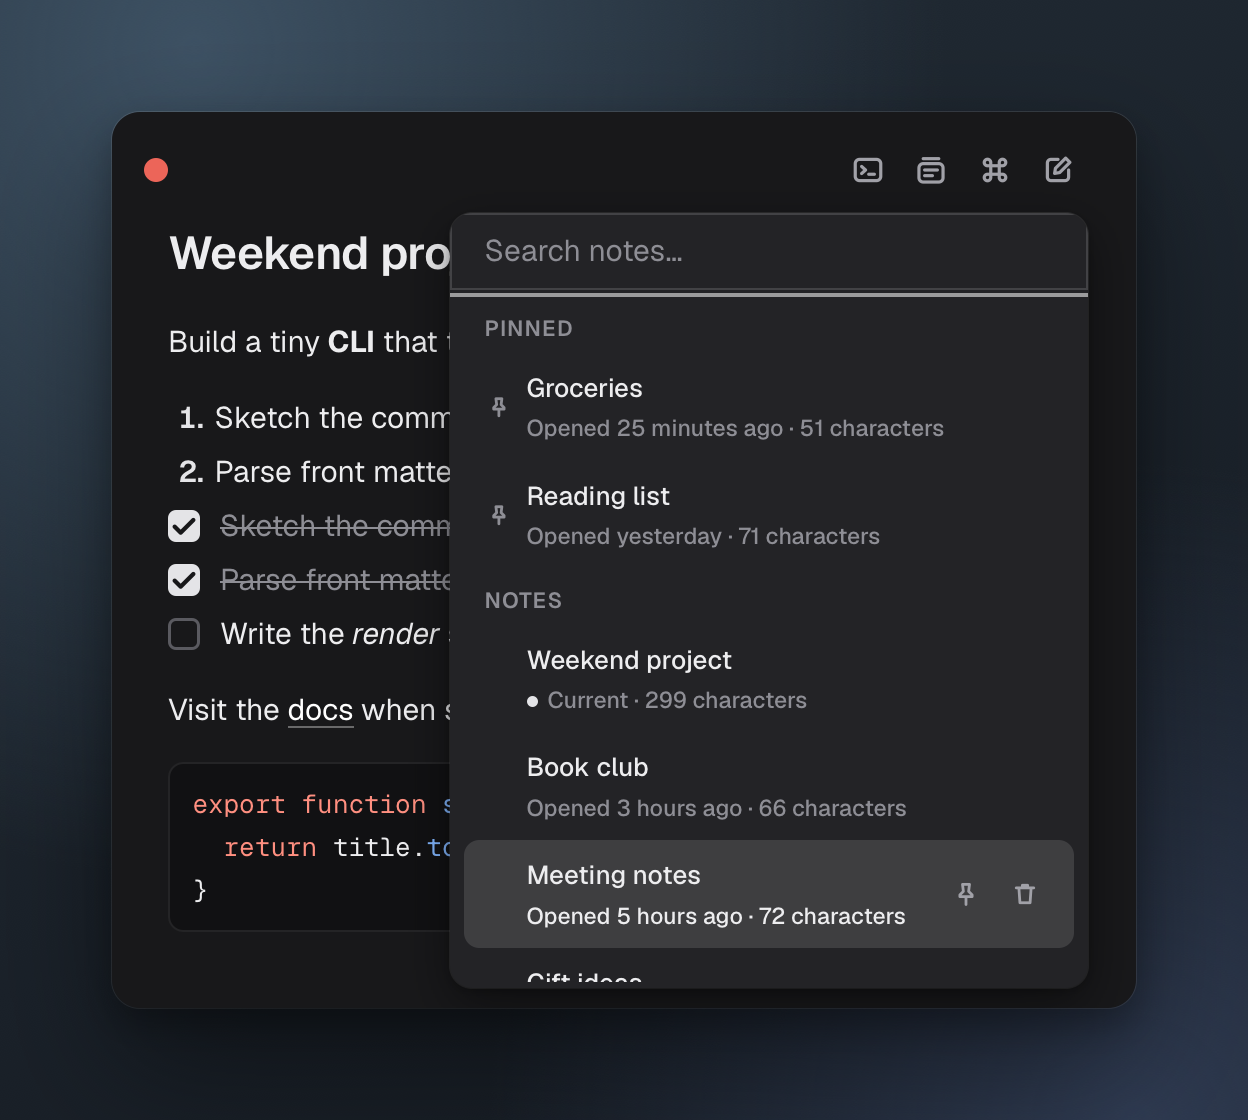
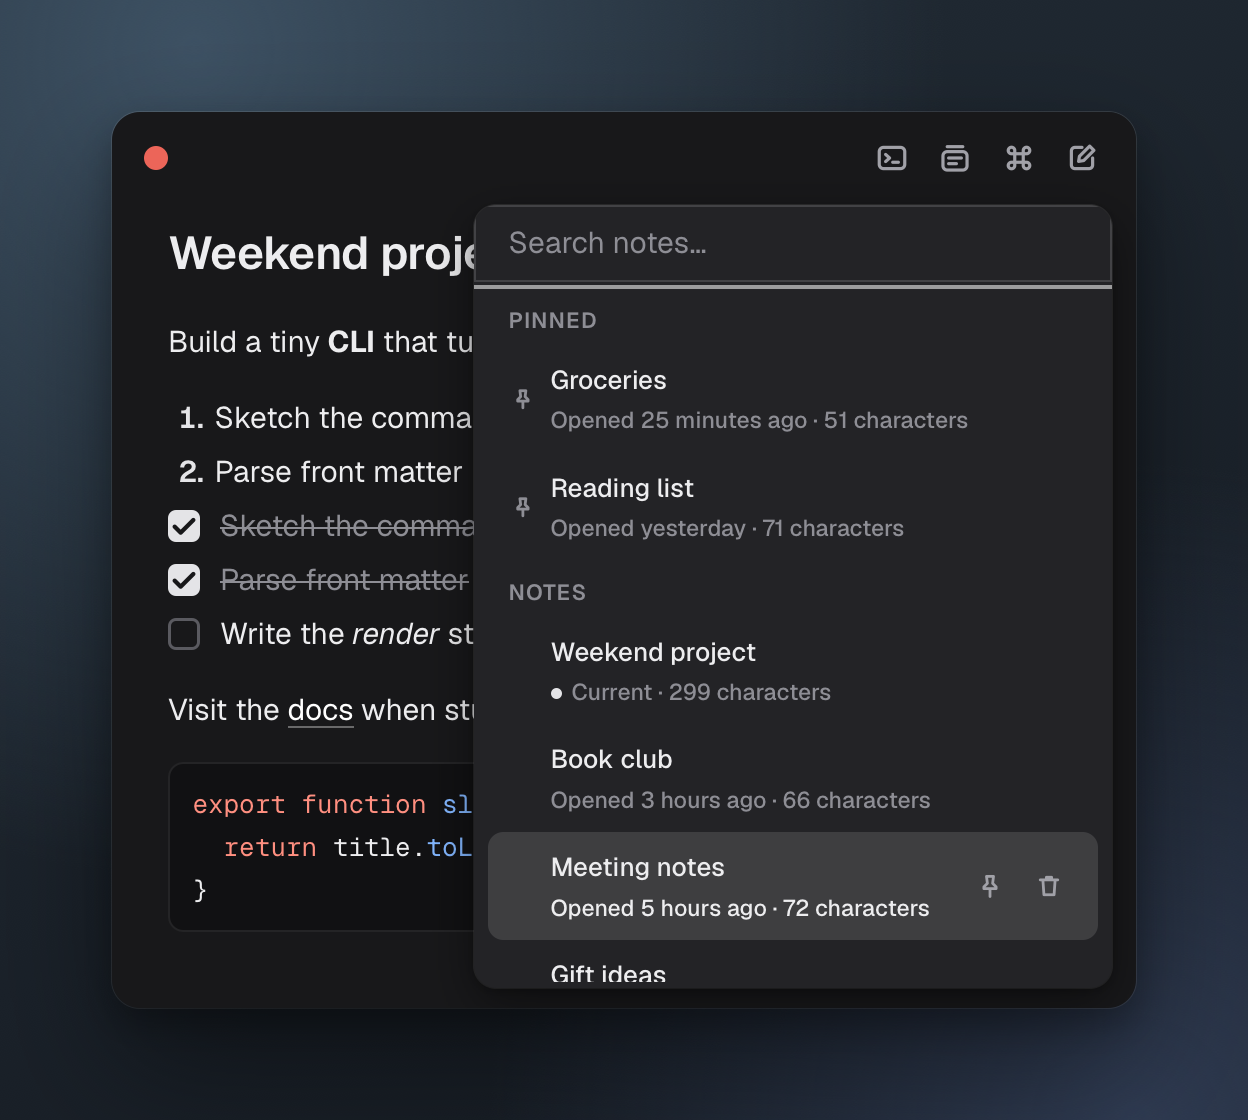
Design task 2: top bar (#29)
The top bar follows board 04: 46 pt, Close inset 16 and the four buttons inset 12 on the bar's centre line, always shown. The faded title is 12.5/500 tertiary, tooltips sit 6 pt under their button with a Geist Mono shortcut, and the helper's top resize corners shrink to 12 pt so the last button stays clickable.

diff --git a/editor/tests/window.spec.ts b/editor/tests/window.spec.ts
@@ -69,12 +69,14 @@ test("resize reports follow content, zoom, and overlays", async ({ page }) => {
   await settle(page);
   expect((await reports()).length).toBe(count);
 
-  // The top 12 points stay free of controls for the native drag strip.
+  // The top bar's icons stay below the native 12 point drag strip.
   await page.mouse.move(300, 120);
-  const buttonTop = await page
+  const iconTop = await page
     .getByTestId("new-note")
-    .evaluate((el) => el.getBoundingClientRect().top - el.closest(".app")!.getBoundingClientRect().top);
-  expect(buttonTop).toBeGreaterThanOrEqual(12);
+    .evaluate(
+      (el) => el.querySelector(".icon")!.getBoundingClientRect().top - el.closest(".app")!.getBoundingClientRect().top,
+    );
+  expect(iconTop).toBeGreaterThanOrEqual(12);
 });
 
 test("the minimum size is the bars plus one line at the current zoom, never below 405 x 197", async ({ page }) => {
@@ -265,13 +267,12 @@ test("the first line renders exactly like body text and still names the note", a
   await expect(page.getByTestId("title")).toHaveText("Say Hello");
   await expect.poll(async () => String((await lastSave(page)).title)).toBe("Say Hello");
 
-  // An empty note shows the placeholder in plain body style and a quiet "Untitled".
+  // An empty note shows the placeholder in plain body style and names itself "Untitled".
   await openHarness(page);
   await expect(editor(page).locator(":scope > p")).toHaveAttribute("data-placeholder", "Start writing…");
   await expect(page.getByTestId("title")).toHaveText("Untitled");
-  await expect(page.getByTestId("title")).toHaveClass(/is-untitled/);
   await page.keyboard.type("T");
-  await expect(page.getByTestId("title")).not.toHaveClass(/is-untitled/);
+  await expect(page.getByTestId("title")).toHaveText("T");
 });
 
 test("decorations, chrome, and panels never churn window.resize reports", async ({ page }) => {
@@ -349,7 +350,7 @@ test("motion: short ease-out transitions, a fading panel exit, and none with red
     page.evaluate(() => {
       const css = (sel: string) => getComputedStyle(document.querySelector(sel)!);
       return {
-        chrome: `${css(".toolbar-actions").transitionDuration} ${css(".toolbar-actions").transitionTimingFunction}`,
+        chrome: `${css(".tooltip").transitionDuration} ${css(".tooltip").transitionTimingFunction}`,
         panel: document.querySelector("[data-testid=command-panel]")
           ? `${css("[data-testid=command-panel]").animationName} ${css("[data-testid=command-panel]").animationDuration}`
           : "",
@@ -617,39 +618,27 @@ test("the top bar follows the editor board: a 46 point bar, the Close dot, and 3
     expect(w).toBeCloseTo(30, 1);
     expect(h).toBeCloseTo(30, 1);
   }
-  // Controls stay clear of the helper's resize zones: 10 points along edges, 24 point squares at corners.
-  // Close is measured by its visible dot, which sits on the corner square's lower edge (within a point);
-  // its hit area keeps the 28 point floor and only stays out of the edge zone.
+  // What you aim at stays clear of the helper's resize zones (10 points along edges, 24 point squares at the
+  // bottom corners, 12 point squares at the top corners): the top bar's visible glyphs, and the footer's buttons.
+  // The top bar's hit areas may reach a point or two into the top edge zone, where the helper takes the pointer.
   const clearance = await page.evaluate(() => {
     const app = document.querySelector("[data-testid=app]")!.getBoundingClientRect();
     const targets = [
-      ...document.querySelectorAll(
-        "[data-testid=toolbar] button:not([data-testid=close]), [data-testid=footer] button",
-      ),
+      ...document.querySelectorAll("[data-testid=close-dot], .toolbar-actions .icon, [data-testid=footer] button"),
     ];
-    const close = document.querySelector("[data-testid=close]")!;
-    const closeBox = close.getBoundingClientRect();
-    const dot = document.querySelector("[data-testid=close-dot]")!.getBoundingClientRect();
-    return [
-      {
-        name: "Close",
-        edge: Math.min(closeBox.left - app.left, closeBox.top - app.top),
-        inCorner: dot.top - app.top < 23,
-      },
-      ...targets.map((el) => {
-        const r = el.getBoundingClientRect();
-        const left = r.left - app.left;
-        const top = r.top - app.top;
-        const right = app.right - r.right;
-        const bottom = app.bottom - r.bottom;
-        const inCorner = Math.min(left, right) < 24 && Math.min(top, bottom) < 24;
-        return {
-          name: el.getAttribute("aria-label") ?? el.textContent,
-          edge: Math.min(left, top, right, bottom),
-          inCorner,
-        };
-      }),
-    ];
+    return targets.map((el) => {
+      const r = el.getBoundingClientRect();
+      const left = r.left - app.left;
+      const top = r.top - app.top;
+      const right = app.right - r.right;
+      const bottom = app.bottom - r.bottom;
+      const corner = top < bottom ? 12 : 24;
+      return {
+        name: el.closest("button")?.getAttribute("aria-label") ?? el.textContent,
+        edge: Math.min(left, top, right, bottom),
+        inCorner: Math.min(left, right) < corner && Math.min(top, bottom) < corner,
+      };
+    });
   });
   for (const c of clearance) {
     expect(c.edge, String(c.name)).toBeGreaterThanOrEqual(10);
@@ -787,12 +776,18 @@ test("toolbar drag regions cover the empty toolbar and exclude every button", as
   await verify();
 });
 
-test("hover chrome and the Close control", async ({ page }) => {
+test("the top bar shows at rest, centred in 46 points, and Close hides the panel", async ({ page }) => {
   await openHarness(page, ["Text"]);
   await page.mouse.move(320, 700);
-  await expect(page.getByTestId("close")).toHaveCSS("opacity", "0");
-  await page.getByTestId("title").hover();
   await expect(page.getByTestId("close")).toHaveCSS("opacity", "1");
+  await expect(page.locator(".toolbar-actions")).toHaveCSS("opacity", "1");
+  // Board 04: the buttons sit on the bar's centre line, the last one 12 points from the right edge.
+  const geometry = await page.evaluate(() => {
+    const bar = document.querySelector(".toolbar")!.getBoundingClientRect();
+    const last = document.querySelector("[data-testid=new-note]")!.getBoundingClientRect();
+    return { height: bar.height, centre: last.top + last.height / 2 - bar.top, right: bar.right - last.right };
+  });
+  expect(geometry).toEqual({ height: 46, centre: 23, right: 12 });
   await page.getByTestId("close").click();
   await expect.poll(async () => (await calls(page, "window.hide")).length).toBe(1);
 });

diff --git a/editor/src/styles/app.css b/editor/src/styles/app.css
@@ -141,16 +141,6 @@ kbd {
   background: var(--bg-panel);
 }
 
-/* Chrome shows only while the pointer is over the panel. Opacity only, so nothing shifts. */
-.chrome {
-  transition: opacity var(--duration-fast) var(--ease-out);
-}
-
-.app:not(:hover) .chrome {
-  opacity: 0;
-  pointer-events: none;
-}
-
 .app:not(:hover) .format-bar {
   opacity: 0.3;
 }
@@ -207,9 +197,9 @@ kbd {
 }
 
 /*
- * The helper's invisible drag strip covers the top 12 points; keep it free of controls.
- * Close, the title, and the buttons share one row, centred in the 34 points under the strip.
- * Everything in the toolbar that is not a control drags the window (window.setDragRegions).
+ * The top bar (board 04): 46 points, Close inset 16 on the left, the four buttons inset 12 on the right, all on
+ * the bar's centre line, always shown. The helper's 12 point drag strip and 12 point top corner squares stay
+ * clear of the icons. Everything in the bar that is not a control drags the window (window.setDragRegions).
  */
 .toolbar {
   position: relative;
@@ -220,7 +210,7 @@ kbd {
   align-items: center;
   gap: var(--space-2);
   min-height: var(--topbar-height);
-  padding: var(--drag-strip) var(--topbar-inset-right) 0 var(--topbar-inset-left);
+  padding: 0 var(--topbar-inset-right) 0 var(--topbar-inset-left);
   -webkit-user-select: none;
   user-select: none;
 }
@@ -246,10 +236,10 @@ kbd {
 /* No repeated title while the note shows its own first line; it fades in once that line scrolls away. */
 .toolbar-title {
   margin: 0;
-  font-size: var(--font-size-secondary);
-  font-weight: var(--font-weight-heading);
+  font-size: var(--font-size-caption);
+  font-weight: var(--font-weight-secondary);
   line-height: var(--topbar-button);
-  color: var(--text-secondary);
+  color: var(--text-tertiary);
   white-space: nowrap;
   overflow: hidden;
   text-overflow: ellipsis;
@@ -259,10 +249,6 @@ kbd {
 
 .app[data-scroll~="title"] .toolbar-title {
   opacity: 1;
-}
-
-.toolbar-title.is-untitled {
-  color: var(--text-tertiary);
 }
 
 .toolbar-leading {
@@ -293,18 +279,16 @@ kbd {
   stroke-width: var(--topbar-stroke);
 }
 
-/* The tooltip pill: the button's name and its shortcut, shown after a short hover. */
+/* The tooltip pill: the button's name and its shortcut, 6 points under the button, shown after a short hover. */
 .tooltip {
   position: absolute;
-  top: calc(100% + var(--space-1));
+  top: calc(100% + var(--space-1) + var(--space-0));
   right: 0;
   z-index: 30;
-  padding: calc(4rem / 14) calc(8rem / 14);
+  padding: var(--space-1) var(--space-2);
   border-radius: var(--radius-chip);
   background: var(--tooltip-bg);
-  box-shadow:
-    0 0 0 0.5px var(--tooltip-ring),
-    var(--shadow-small);
+  box-shadow: 0 0 0 0.5px var(--tooltip-ring);
   color: var(--text);
   font-size: var(--font-size-small);
   font-weight: var(--font-weight-secondary);
@@ -312,11 +296,12 @@ kbd {
   white-space: nowrap;
   opacity: 0;
   pointer-events: none;
-  transition: opacity var(--duration-pop) var(--ease-out);
+  transition: opacity var(--duration-fast) var(--ease-out);
 }
 
 .tooltip kbd {
   margin-left: var(--space-0);
+  font-family: var(--font-mono);
   color: var(--tooltip-key);
 }
 
@@ -889,16 +874,13 @@ html[data-high-zoom="true"] .find-bar {
  */
 .panel {
   --panel-gap: 0.6rem;
-  top: calc(var(--drag-strip) + var(--topbar-button) + var(--panel-gap));
+  top: calc(var(--topbar-button-bottom) + var(--panel-gap));
   right: var(--topbar-inset-right);
   display: flex;
   flex-direction: column;
   width: min(var(--panel-width), calc(100% - 2 * var(--topbar-inset-right)));
   /* Inside the panel, whatever its size: the list scrolls when the panel is short. */
-  max-height: min(
-    30rem,
-    calc(100% - var(--drag-strip) - var(--topbar-button) - var(--panel-gap) - var(--dropdown-inset))
-  );
+  max-height: min(30rem, calc(100% - var(--topbar-button-bottom) - var(--panel-gap) - var(--dropdown-inset)));
   padding: 0 var(--space-2) var(--space-2);
   overflow: hidden;
   transform-origin: var(--origin-x, calc(100% - 3rem)) 0;

diff --git a/editor/src/ui/Toolbar.tsx b/editor/src/ui/Toolbar.tsx
@@ -2,8 +2,6 @@ import { Icon, type IconName } from "./icons";
 
 interface ToolbarProps {
   title: string;
-  /** No text yet: the title is the "Untitled" fallback and is drawn quieter. */
-  untitled?: boolean;
   onClose: () => void;
   onActions: () => void;
   onBrowse: () => void;
@@ -48,25 +46,16 @@ function ToolbarButton({ icon, label, shortcut, onClick, anchor, testId, active 
 }
 
 /**
- * Top bar: Close on the left, an empty middle that drags the window, and the icon buttons on the right.
+ * Top bar: Close on the left, an empty middle that drags the window, and the icon buttons on the right, always shown.
  * The title fades into the middle only once the note's first line has scrolled away (useScrollEdges).
  */
-export function Toolbar({
-  title,
-  untitled,
-  onClose,
-  onActions,
-  onBrowse,
-  onNew,
-  terminalOpen,
-  onTerminal,
-}: ToolbarProps) {
+export function Toolbar({ title, onClose, onActions, onBrowse, onNew, terminalOpen, onTerminal }: ToolbarProps) {
   return (
     <header className="toolbar" data-testid="toolbar">
       <div className="toolbar-leading">
         <button
           type="button"
-          className="close-button chrome"
+          className="close-button"
           title="Close"
           aria-label="Close"
           data-testid="close"
@@ -79,10 +68,10 @@ export function Toolbar({
           </span>
         </button>
       </div>
-      <h1 className={`toolbar-title${untitled ? " is-untitled" : ""}`} data-testid="title" title={title}>
+      <h1 className="toolbar-title" data-testid="title" title={title}>
         {title}
       </h1>
-      <div className="toolbar-actions chrome">
+      <div className="toolbar-actions">
         <ToolbarButton
           icon="terminal"
           label="Terminal"

diff --git a/helper/Sources/OvernoteHelper/NotesPanel.swift b/helper/Sources/OvernoteHelper/NotesPanel.swift
@@ -224,8 +224,10 @@ struct ResizeEdge: OptionSet, Hashable {
 
     /// Along each edge.
     static let edgeThickness: CGFloat = 10
-    /// The square at each corner.
+    /// The square at each bottom corner.
     static let cornerSize: CGFloat = 24
+    /// The square at each top corner: smaller, so the top bar's last button, 12 pt from the edge, stays clickable.
+    static let topCornerSize: CGFloat = 12
 
     var name: String {
         let parts: [(ResizeEdge, String)] = [(.top, "top"), (.bottom, "bottom"), (.left, "left"), (.right, "right")]
@@ -235,10 +237,12 @@ struct ResizeEdge: OptionSet, Hashable {
     /// The zone at `point` (bottom left origin) in a view of `size`, or nil in the interior.
     static func zone(at point: NSPoint, in size: NSSize) -> ResizeEdge? {
         guard point.x >= 0, point.y >= 0, point.x <= size.width, point.y <= size.height else { return nil }
-        let nearLeft = point.x < cornerSize, nearRight = point.x > size.width - cornerSize
-        let nearBottom = point.y < cornerSize, nearTop = point.y > size.height - cornerSize
-        if (nearLeft || nearRight) && (nearTop || nearBottom) {
-            return [nearLeft ? .left : .right, nearTop ? .top : .bottom]
+        let inBottomCorner = point.y < cornerSize && (point.x < cornerSize || point.x > size.width - cornerSize)
+        let inTopCorner =
+            point.y > size.height - topCornerSize
+            && (point.x < topCornerSize || point.x > size.width - topCornerSize)
+        if inBottomCorner || inTopCorner {
+            return [point.x < size.width / 2 ? .left : .right, inTopCorner ? .top : .bottom]
         }
         var edge: ResizeEdge = []
         if point.x < edgeThickness { edge.insert(.left) }

diff --git a/editor/src/styles/theme.css b/editor/src/styles/theme.css
@@ -178,6 +178,8 @@
    * The UI base is 14 px at 100% zoom (1rem), and zoom scales the root font size, so every size is in rem.
    */
   --font-size: 14px;
+  /* 12.5 px: the faded title in the top bar, Search's chips, and toasts. */
+  --font-size-caption: calc(12.5rem / 14);
   --font-weight-secondary: 500;
   --font-weight-label: 600;
   --line-height-code: 1.65;
@@ -259,7 +261,6 @@
   --terminal-height: 360px;
 
   /* ---- window layout ---- */
-  --drag-strip: 12px;
   /* The helper's resize zones: 10 pt along edges, 24 pt squares at corners; controls stay outside. */
   --corner-clearance: 24px;
   --edge-zone: 10px;
@@ -267,10 +268,12 @@
   --dropdown-inset: max(var(--edge-zone), var(--space-2));
   /* The top bar: the window control inset 16, buttons 30 with 8 corners, icons drawn with a 1.6 stroke. */
   --topbar-inset-left: calc(16rem / 14);
-  /* The board insets the last button 12 pt; it stays clear of the helper's 24 pt corner square. */
-  --topbar-inset-right: max(var(--corner-clearance), calc(12rem / 14));
+  /* The last button sits 12 pt from the edge, clear of the helper's 12 pt top corner square. */
+  --topbar-inset-right: calc(12rem / 14);
   --topbar-button-radius: calc(8rem / 14);
   --topbar-stroke: calc(1.6rem / 14);
+  /* Where the top bar buttons end: popovers that hang from them start here. */
+  --topbar-button-bottom: calc((var(--topbar-height) + var(--topbar-button)) / 2);
   --close-dot: calc(12rem / 14);
   --close: #ec6559;
   --close-glyph: rgba(0, 0, 0, 0.6);

diff --git a/editor/src/ui/App.tsx b/editor/src/ui/App.tsx
@@ -949,7 +949,6 @@ export function App({ api }: { api: Api }) {
     >
       <Toolbar
         title={title}
-        untitled={blank}
         onClose={() => {
           session.saveInBackground();
           void api.window.hide().catch(() => undefined);

diff --git a/docs/architecture.md b/docs/architecture.md
@@ -303,10 +303,10 @@ Purge rule: on startup, and every 24 h while running, notes with `deletedAt` str
   Each dropdown opens next to its anchor on its preferred side when it fits there, else on the side with more room, capped to that room so it scrolls inside, and slides sideways to stay inside.
   All of them keep clear of the drag strip and of the 10 pt resize zones.
 - The helper provides a standard Edit menu (⌘C, ⌘X, ⌘V, ⌘Z, ⇧⌘Z, ⌘A) and maps ⇧⌘V to a real paste event in the web view; the editor turns that paste into plain text and never reads the clipboard itself.
-- The panel is borderless: the editor draws its own Close control (`window.hide`) and the hover-only chrome. ⌘W hides the panel (helper menu item, like closing a window in any app).
-- The helper gives the borderless panel generous resize hit zones: 10 pt along edges and 24 pt squares at corners, with the matching resize cursors.
+- The panel is borderless: the editor draws its own Close control (`window.hide`) and the top bar, always shown. ⌘W hides the panel (helper menu item, like closing a window in any app).
+- The helper gives the borderless panel generous resize hit zones: 10 pt along edges, 24 pt squares at the bottom corners, and 12 pt squares at the top corners (so the top bar's last button, 12 pt from the edge, stays clickable), with the matching resize cursors.
   The top 10 pt of the drag strip is a resize zone.
-  Keep interactive controls at least 24 pt from the panel corners.
+  Keep interactive controls at least 24 pt from the bottom corners and 12 pt from the top corners.
 - The panel is resizable (`.resizable`) and reports the standard window subrole (`AXStandardWindow`) to Accessibility, not the system dialog subrole a non activating panel gets by default, so system tiling and window managers can place and size it like an app window.
   Drags in the drag regions and the drag strip hand off to the window server (`performDrag`), the system's own window move.
   A frame the helper did not set itself (system tiling, a window manager through Accessibility, the system's own sliver of edge resize) is kept as the person's resize: it is stored like a drag in the resize zones, and a new height turns windowAutoSize off.
